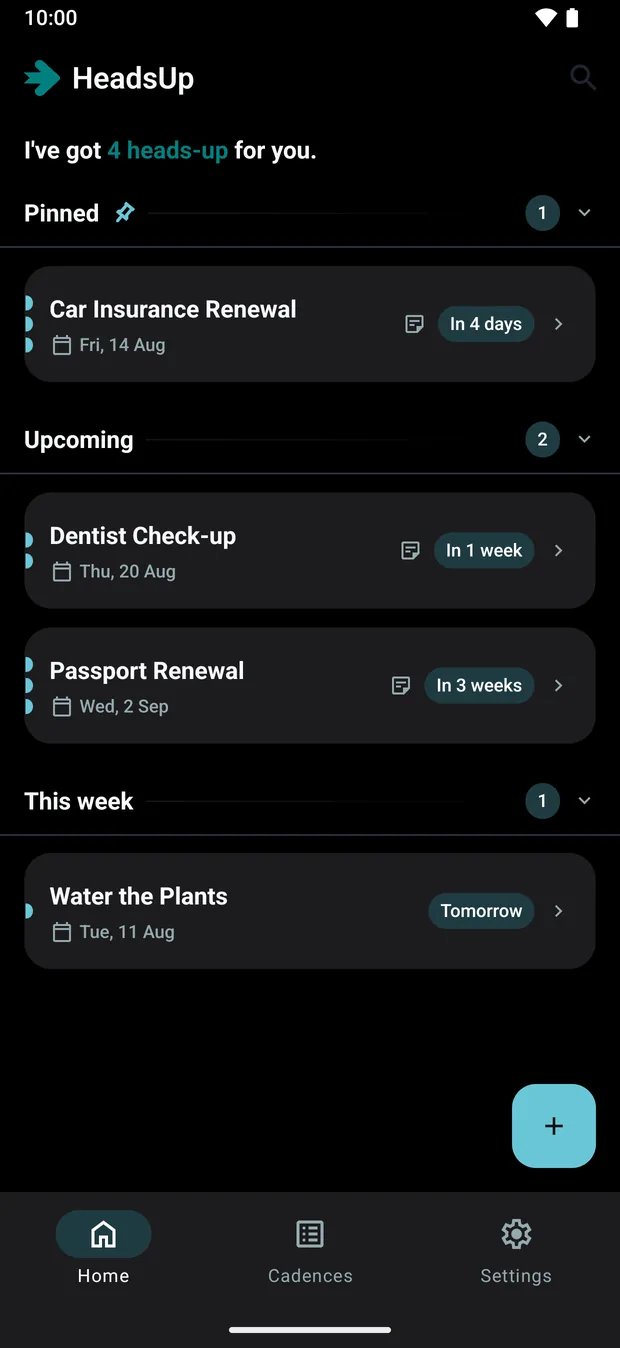
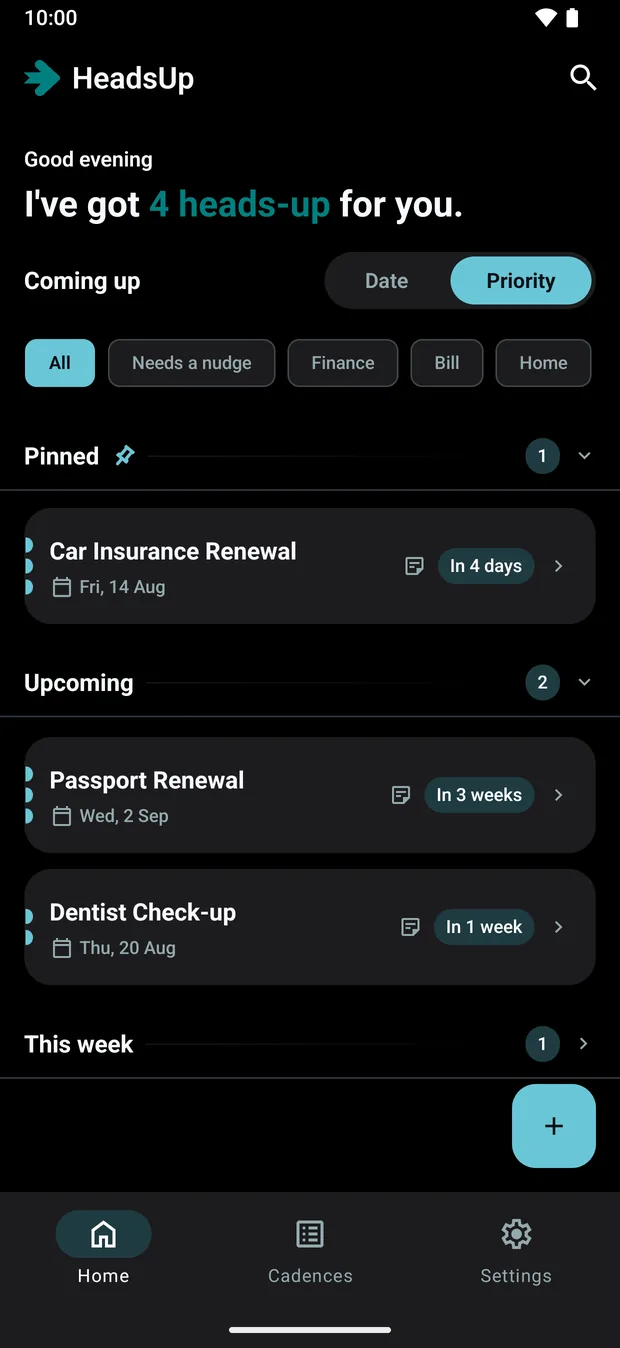
Give the HeadsUp hero its own Home capture again
The hero and the first gallery slide were both showing upcoming.webp -- the
same file twice on one page. The hero now has a distinct capture: sorted by
priority, with the Pinned section expanded and This week collapsed, so it
differs from the gallery shot in sort pill, section state, and card order
rather than being a near-duplicate.

Reuses the home-overview slot the previous commit had orphaned, so nothing in
assets/shots is unreferenced. Drops both @2x files: no srcset exists anywhere,
and the hero renders 230px wide against a 620px asset, so they were dead
weight.

Captured with the new npm run screenshot:* tooling in the app repo.

Changed region(s): [[0.0306, 0.0935, 0.9806, 0.8101], [0.9194, 0.0312, 0.95, 0.0623]]

diff --git a/headsup.html b/headsup.html
@@ -17,7 +17,7 @@
   <meta property="og:image" content="https://mundaneapps.com/assets/og/og-headsup.png">
   <meta name="twitter:card" content="summary_large_image">
   <meta name="twitter:image" content="https://mundaneapps.com/assets/og/og-headsup.png">
-  <link rel="preload" as="image" href="/assets/shots/upcoming.webp">
+  <link rel="preload" as="image" href="/assets/shots/home-overview.webp">
   <script src="/theme-init.js"></script>
   <link rel="stylesheet" href="/style.css">
 </head>
@@ -106,7 +106,7 @@
           <div class="spot-visual reveal d2">
             <div class="hero-phone-stage">
               <div class="phone-cluster">
-                <div class="phone"><img src="/assets/shots/upcoming.webp" data-light-src="/assets/shots/upcoming.webp" data-dark-src="/assets/shots/upcoming-dark.webp" width="620" height="1348" alt="HeadsUp Home screen showing 4 upcoming and 0 overdue" loading="eager"></div>
+                <div class="phone"><img src="/assets/shots/home-overview.webp" data-light-src="/assets/shots/home-overview.webp" data-dark-src="/assets/shots/home-overview-dark.webp" width="620" height="1348" alt="HeadsUp Home screen showing 4 upcoming and 0 overdue, sorted by priority" loading="eager"></div>
               </div>
               <div class="motion-chip motion-chip-left" aria-hidden="true">
                 <span>Ahead of time</span>
